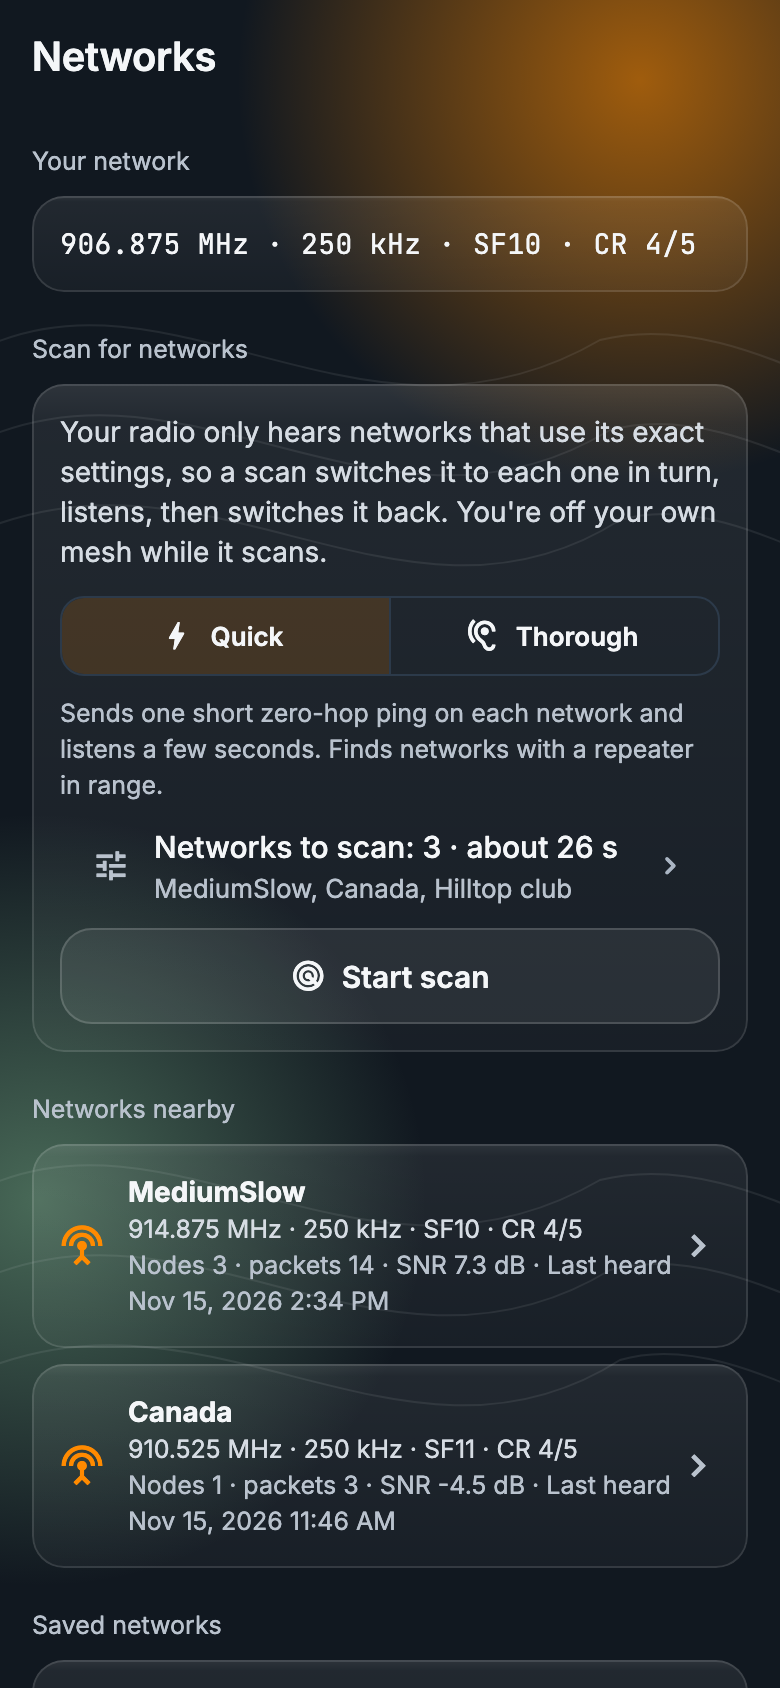
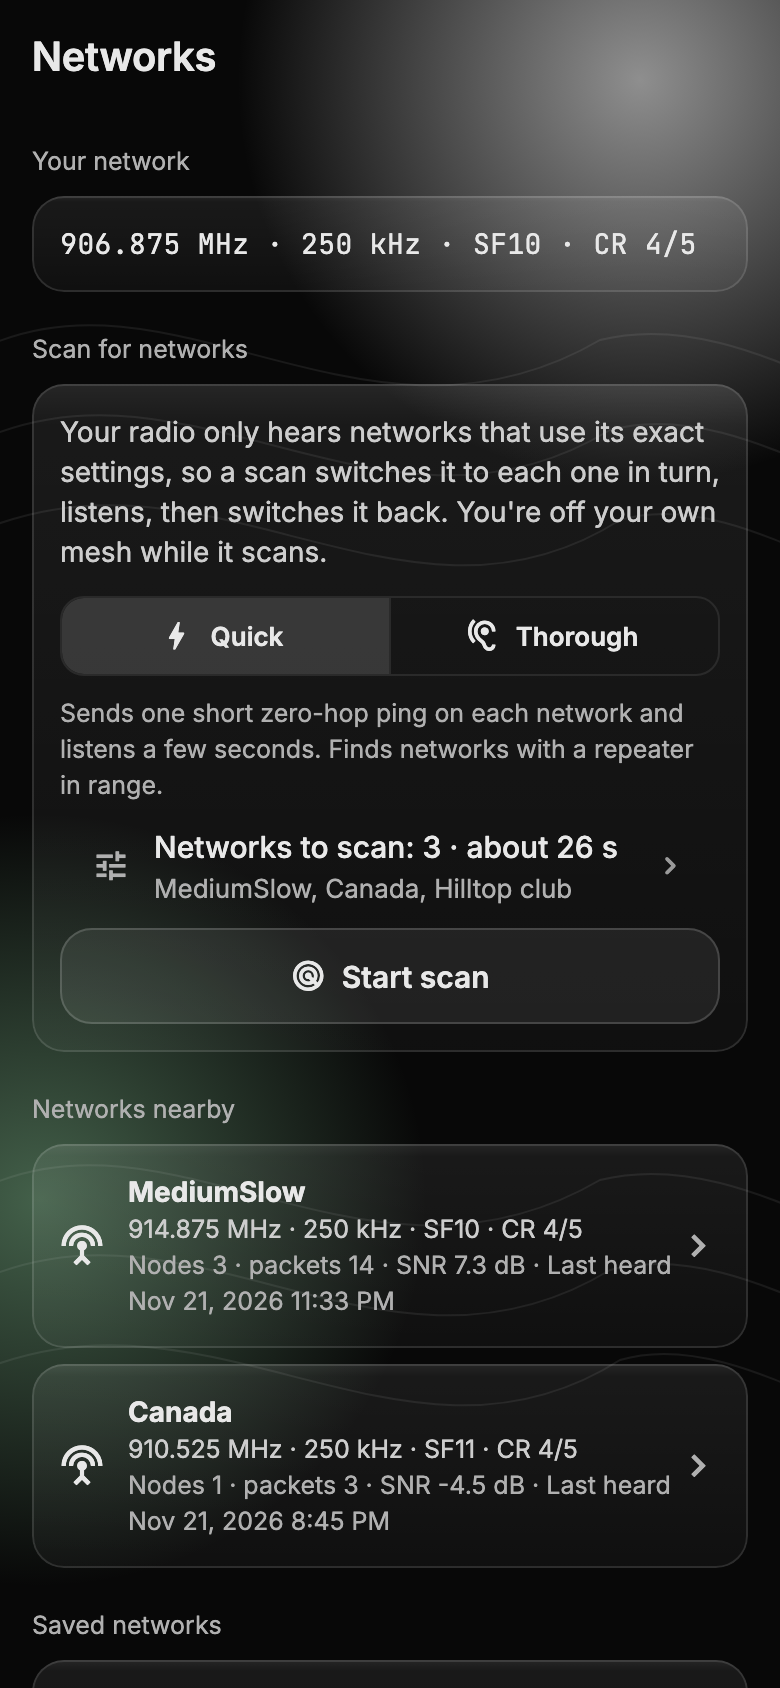
README and screenshots in the BLACKOUT look
Banner header, all screenshots re-rendered headlessly in BLACKOUT, new
Home/Chats/DM/Traffic map/theme picker shots, theme list, and demo
stations renamed to placeholder calls (N0X..) and generic places.

diff --git a/test/preview/screens_preview_test.dart b/test/preview/screens_preview_test.dart
@@ -116,12 +116,12 @@ Contact _contact(
 );
 
 final _contacts = [
-  _contact(1, 'KD2ABC Ridge Camp', advTypeChat, ago: 2),
-  _contact(2, 'N7SAM trail crew', advTypeChat, hops: 2, ago: 14),
-  _contact(3, 'N0RPT Hollyburn', advTypeRepeater, hops: 0, ago: 1),
-  _contact(4, 'K7CYP Cypress Bowl', advTypeRepeater, hops: 1, ago: 40),
-  _contact(5, 'W1BC Basecamp Room', advTypeRoom, hops: 2, ago: 90),
-  _contact(6, 'KE7WX Weather', advTypeSensor, hops: 3, ago: 300),
+  _contact(1, 'N0XAA Ridge Camp', advTypeChat, ago: 2),
+  _contact(2, 'N0XAB trail crew', advTypeChat, hops: 2, ago: 14),
+  _contact(3, 'N0XAC North Peak', advTypeRepeater, hops: 0, ago: 1),
+  _contact(4, 'N0XAD East Ridge', advTypeRepeater, hops: 1, ago: 40),
+  _contact(5, 'N0XAE Basecamp Room', advTypeRoom, hops: 2, ago: 90),
+  _contact(6, 'N0XAF Weather', advTypeSensor, hops: 3, ago: 300),
 ];
 
 final _channels = [
@@ -141,7 +141,7 @@ List<ChannelMessage> _channelMessages(int index) => [
   ),
   ChannelMessage(
     senderName: 'Me',
-    text: 'Copy, 20 min out. Repeater at Hollyburn is solid.',
+    text: 'Copy, 20 min out. Repeater on North Peak is solid.',
     timestamp: _now.subtract(const Duration(minutes: 18)),
     isOutgoing: true,
     status: ChannelMessageStatus.sent,
@@ -227,9 +227,9 @@ class _PreviewConnector extends MeshCoreConnector {
   Future<List<ChannelMessage>> loadFullChannelHistory(Channel channel) async =>
       channel.index == 1 ? _pathHistory() : const [];
   @override
-  String? get selfName => 'W1AW Trail';
+  String? get selfName => 'N0XYZ Trail';
   @override
-  String get deviceDisplayName => 'W1AW Trail';
+  String get deviceDisplayName => 'N0XYZ Trail';
   @override
   Uint8List? get selfPublicKey => _key(99);
   @override
@@ -286,7 +286,7 @@ class _PreviewScanConnector extends _PreviewConnector {
   MeshCoreConnectionState get state => MeshCoreConnectionState.scanning;
   @override
   List<ScanResult> get scanResults => [
-    _scan('MeshCore-W1AW Trail', 'CF57FC24-9872-0AFC-7DEC-E36A387DE23D', -48),
+    _scan('MeshCore-N0XYZ Trail', 'CF57FC24-9872-0AFC-7DEC-E36A387DE23D', -48),
     _scan('MeshCore-Ridge Base', '7A10B2C3-1F4E-4D21-9A0B-5C6D7E8F9012', -71),
     _scan('MeshCore-Cabin Relay', 'E2B4C6D8-0A1C-4E3F-8B2D-4F6A8C0E2B44', -88),
   ];
@@ -579,7 +579,7 @@ void main() {
       create: (_) => OperatorProfileService()
         ..save(
           OperatorProfile(
-            callsign: 'W1AW',
+            callsign: 'N0XYZ',
             licenseClass: LicenseClass.general,
             acknowledgedAt: DateTime(2026, 11, 5),
           ),
@@ -590,7 +590,7 @@ void main() {
       create: (_) => OperatorProfileService()
         ..save(
           OperatorProfile(
-            callsign: 'W1AW',
+            callsign: 'N0XYZ',
             licenseClass: LicenseClass.general,
             acknowledgedAt: DateTime(2026, 11, 5),
           ),
@@ -772,8 +772,8 @@ List<NetworkSighting> _sampleSightings() {
       bestSnr: 7.25,
       bestRssi: -92,
       nodes: const [
-        HeardNode(key: 'a1b2c3d4', name: 'Hollyburn RPT', type: 2),
-        HeardNode(key: 'e5f60718', name: 'Cypress Bowl RPT', type: 2),
+        HeardNode(key: 'a1b2c3d4', name: 'North Peak RPT', type: 2),
+        HeardNode(key: 'e5f60718', name: 'East Ridge RPT', type: 2),
         HeardNode(key: '99aa0011', name: 'Ridge Camp', type: 1),
       ],
     ),
@@ -791,7 +791,7 @@ List<NetworkSighting> _sampleSightings() {
       packets: 3,
       bestSnr: -4.5,
       bestRssi: -118,
-      nodes: const [HeardNode(key: '0badf00d', name: 'Seymour RPT', type: 2)],
+      nodes: const [HeardNode(key: '0badf00d', name: 'Summit RPT', type: 2)],
     ),
   ];
 }

diff --git a/test/preview/traffic_preview_test.dart b/test/preview/traffic_preview_test.dart
@@ -54,7 +54,9 @@ void main() {
 
   testWidgets('traffic map', skip: out == null, (tester) async {
     await _loadFonts();
-    final palette = BastionTheme.fromId('blaze').palette;
+    final palette = BastionTheme.fromId(
+      Platform.environment['PREVIEW_THEME']?.split(',').first,
+    ).palette;
     MeshPalette.current = palette;
     await tester.binding.setSurfaceSize(const Size(390, 844));
     tester.view.devicePixelRatio = 2;
@@ -68,10 +70,10 @@ void main() {
           role: TrafficHopRole.origin,
           position: const LatLng(40.95, -76.6),
         ),
-        _hop('F5', 'Mt Pisgah', 40.7, -76.1),
+        _hop('F5', 'North Peak', 40.7, -76.1),
         const TrafficHop(id: 'C7', role: TrafficHopRole.repeater),
         _hop('BF', null, 40.45, -75.5),
-        _hop('0D', 'Ridge W3', 40.2, -74.95),
+        _hop('0D', 'West Ridge', 40.2, -74.95),
         const TrafficHop(
           id: 'C0FFEE',
           role: TrafficHopRole.self,

diff --git a/README.md b/README.md
@@ -1,5 +1,5 @@
 <p align="center">
-  <img src="branding/notoryx-icon.png" width="120" alt="NOTORYX app icon">
+  <img src="branding/notoryx-ham-banner.png" alt="NOTORYX Core Ham: engineered for independence">
 </p>
 
 # NOTORYX Core Ham
@@ -19,7 +19,7 @@ NOTORYX Core Ham is the amateur radio (FCC Part 97) edition of NOTORYX Core. Pai
 
 > **Status: test builds.** The newest is always at the top of **[the releases page](https://github.com/TheLogsAreScreaming/NOTORYX-Core-Ham-Releases/releases)**. The app and firmware pass automated tests and a mesh simulator, but have **not been tested on the air yet**. Use them only on a bench with dummy loads or minimum power until they have been. Everything you send is readable by anyone: that's the law on amateur bands, not a bug.
 >
-> Latest: app **[0.1.0 test 17](https://github.com/TheLogsAreScreaming/NOTORYX-Core-Ham-Releases/releases/tag/v0.1.0-test.17)** (19 November 2026) and **[firmware test 4](https://github.com/TheLogsAreScreaming/NOTORYX-Core-Ham-Releases/releases/tag/v1.18.0-ham-test.4)**.
+> The newest firmware is **[firmware test 4](https://github.com/TheLogsAreScreaming/NOTORYX-Core-Ham-Releases/releases/tag/v1.18.0-ham-test.4)**.
 
 ## What makes it a ham app
 
@@ -63,11 +63,20 @@ Companion builds can be flashed from the browser with the **[web flasher](https:
 1. **Coordinate first.** Read the [coordination guide](docs/licensed-operator/COORDINATION.md) and agree a channel with your frequency coordinator and local operators.
 2. **Flash the NOTORYX Ham firmware** on every radio. See the [firmware repository](https://github.com/TheLogsAreScreaming/NOTORYX-Core-Ham-Firmware) for builds and flashing.
 3. **Set up your operator.** Open **Settings → Licensed operator**, enter your call sign and licence class, read the guide and tick the acknowledgment. Until you do, a banner reminds you on every screen while a radio is connected.
-4. **Name your radio with your call sign.** The Licensed operator page offers **Set to W1AW** (with your call); you can add a suffix like `W1AW-2` or `W1AW Base`.
+4. **Name your radio with your call sign.** The Licensed operator page offers **Set to** your call sign; you can add a suffix like `-2` or ` Base` after it.
 5. **Pick the agreed channel.** **Settings → Radio settings → Presets** starts with **US 33cm**, the firmware default.
 6. **Check power and location.** On the Licensed operator page, enter any external amplifier, feedline loss and antenna gain. It estimates your output and ERP and warns about §97.303 location limits. Use the least power that works, and do an RF exposure evaluation before running higher power.
 
 The tabs at the bottom are **Home**, **Chats**, **Nodes**, **Map** and **More**. Home is where check-in, SOS and your radio's readings live; **More** holds every tool and setting, with a search box.
+
+<p align="center">
+  <img src="docs/screenshots/home.png" width="200" alt="Home: radio readings, Check in and Hold for SOS, trip and field tools">
+  <img src="docs/screenshots/chats.png" width="200" alt="Chats: channels and direct messages, named with call signs">
+  <img src="docs/screenshots/dm_chat.png" width="200" alt="A direct message conversation; the message box reminds you that anyone listening can read it">
+  <img src="docs/screenshots/traffic_map.png" width="200" alt="Map with the live Traffic view: a packet's route drawn hop by hop">
+</p>
+
+Screenshots are rendered from the app with made-up demo stations, not real call signs.
 
 ## Downloads
 
@@ -150,7 +159,7 @@ Everything from NOTORYX Core, working over plain-text ham frames:
 
 ### Look and feel
 - **Frosted ember:** the main screens sit on a glow in your theme's colours, with see-through glass panels and a floating tab bar. With reduce motion turned on, the blur is off.
-- Five themes: **BLACKOUT** (the default: matte black and steel), **Blaze**, **Tactical**, **Okabe-Ito** (colour-vision friendly) and **Night Ops**.
+- **BLACKOUT** is the default look: matte black, charcoal and steel, with colour kept only where it means something (signal, warnings, SOS). Four more themes are in **Settings → Theme**: **Blaze** (hi-vis orange), **Tactical**, **Okabe-Ito** (colour-vision friendly) and **Night Ops** (dim red for the dark).
 - **Your own background:** **Settings → Background** puts a colour, gradient, mesh blend or your own photo behind the glass cards.
 - **A photo or colour per node:** from a node's sheet, give it a colour or photo. It shows in Nodes, the map and chats, stays on this phone and is never sent over the radio.
 - Available in 18 languages.
@@ -162,12 +171,13 @@ Everything from NOTORYX Core, working over plain-text ham frames:
 </p>
 
 <p align="center">
+  <img src="docs/screenshots/themes.png" width="200" alt="Theme picker: BLACKOUT selected, with Blaze, Tactical, Okabe-Ito and Night Ops">
   <img src="docs/screenshots/node_compass.png" width="200" alt="Compass pointing to a node, with distance, bearing and a turn hint">
   <img src="docs/screenshots/node_look.png" width="200" alt="Choosing a colour or photo for a node">
-  <img src="docs/screenshots/background.png" width="200" alt="Background settings: theme glow, colour, gradient, mesh blend or photo">
 </p>
 
 <p align="center">
+  <img src="docs/screenshots/background.png" width="200" alt="Background settings: theme glow, colour, gradient, mesh blend or photo">
   <img src="docs/screenshots/routes.png" width="200" alt="Route Intelligence">
   <img src="docs/screenshots/path_graph.png" width="200" alt="Path graph showing how messages reach you">
 </p>
@@ -232,7 +242,7 @@ flutter test
 - `lib/theme/`: themes and colors
 - `lib/utils/amateur_radio.dart`: ham frame handling, call-sign and band checks shared with the firmware
 - `docs/licensed-operator/`: the coordination guide and the Part 97 feasibility notes
-- `test/`: unit and widget tests; `test/preview/` renders screenshots with demo data (`PREVIEW_OUT=dir flutter test test/preview`; `PREVIEW_THEME=okabe_ito,night_ops` picks themes and `PREVIEW_ONLY=home,node_compass` picks screens)
+- `test/`: unit and widget tests; `test/preview/` renders screenshots with demo data (`PREVIEW_OUT=dir flutter test test/preview`; `PREVIEW_THEME=okabe_ito,night_ops` picks themes (BLACKOUT and Blaze by default) and `PREVIEW_ONLY=home,node_compass` picks screens)
 
 ## Contributing
 
